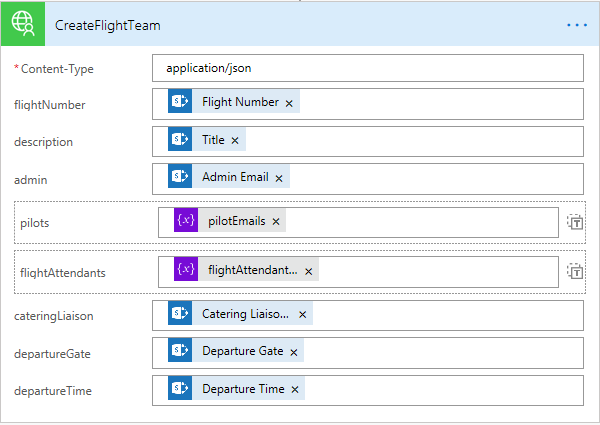
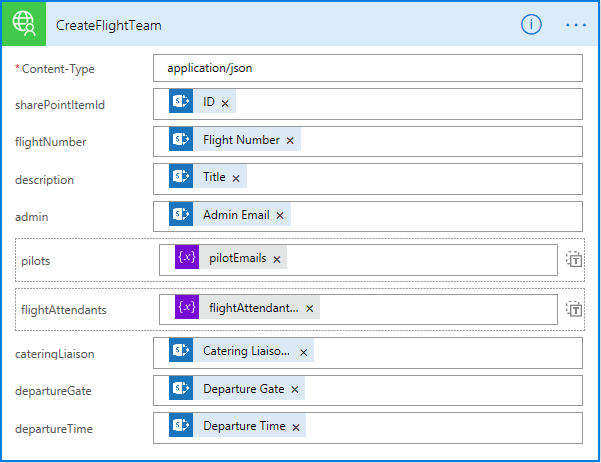
Updated docs on creating the rest of the flows

Changed region(s): [[0.0, 0.0, 1.0, 1.0]]

diff --git a/README.md b/README.md
@@ -8,7 +8,7 @@
 
 1. Go to your Office 365 organization's root SharePoint site.
 1. Choose **Create Site**, then choose **Team site**. Name the site `Flight Admin` and choose **Next**, then choose **Finish**.
-1. When the new site loads in the browser, locate the **Documents** web part. Using either the **New** or the **Upload** button in that webpart, add a Word document called `Flight Log.docx`.
+1. When the new site loads in the browser, locate the **Documents** web part. Using either the **New** or the **Upload** button in that web part, add a Word document called `Flight Log.docx`.
 1. On the site's home page, choose **New** in the upper-left corner, then choose **List**. Name the list `Master Flight List` and choose **Create**.
 1. When the new list loads in the browser, use the **Add column** button to add the following columns:
 
@@ -87,9 +87,37 @@ You need to create two app registration in the Azure Portal.
 
 1. Chose **Save**.
 
-### Record Admin consent
+### Create schema extension
 
-Some of the permissions required by this sample require an administrator to consent.
+This sample uses a [schema extension](https://developer.microsoft.com/en-us/graph/docs/api-reference/beta/resources/schemaextension) to save the item ID of the SharePoint list item that initiated the team provisioning onto the group in Microsoft Graph. This is used to find the group later when archiving the team or notifying members of a change to the departure gate.
+
+1. Go to [Graph Explorer](https://developer.microsoft.com/en-us/graph/graph-explorer) and login with an administrator account.
+1. Change the method to **POST**, the version to **beta**, and set the URL to `https://graph.microsoft.com/beta/schemaExtensions`.
+
+    ![A screenshot of the Graph Explorer request settings](readme-images/graph-explorer-request.PNG)
+
+1. In the **Request Body**, add the following JSON, replacing `app-id-for-flight-team-provisioning-function` with the application ID for your `Flight Team Provisioning Function` app registration.
+
+    ```json
+    {
+        "id":"contosoFlightTeam",
+        "owner": "app-id-for-flight-team-provisioning-function",
+        "description": "Contoso Flight Team Provisioning extensions",
+        "targetTypes": [
+            "Group"
+        ],
+        "properties": [
+            {
+                "name": "sharePointItemId",
+                "type": "Integer"
+            }
+        ]
+    }
+    ```
+
+1. Choose **Run Query**.
+1. In the **Response Preview**, locate the value of the `id` property. Copy this value.
+1. Open the `./create-flight-team/Graph/GraphResources.cs` file and replace `YOUR_SCHEMA_EXTENSION_NAME` with the value you just copied.
 
 ## Configure Microsoft Flow
 
@@ -160,6 +188,7 @@ Some of the permissions required by this sample require an administrator to cons
 1. Enter `Contoso` in the search box, then select **Contoso Team Provisioning - CreateFlightTeam**.
 1. Choose **Sign in**. **Be sure to use an administrator account** when you sign in to create the connection. The permissions required by the sample require administrator consent.
 1. Once sign in and consent are complete, you should see a form for the action. Fill in the fields as follows using the Flow UI.
+    1. **sharePointItemId**: Under **Dynamic content** choose **See more**, then select **ID**.
     1. **flightNumber**: Under **Dynamic content** choose **See more**, then select **Flight Number**.
     1. **description**: Under **Dynamic content** select **Title**.
     1. **admin**: Under **Dynamic content** select **Admin Email**.
@@ -173,15 +202,15 @@ Some of the permissions required by this sample require an administrator to cons
 
 1. Choose **New Step**, then **Add an action**.
 1. Enter `notification` in the search box, then select **Notifications - Send me an email notification**.
-    1. For **Subject**, enter `Microsoft Team created for Flight `, then under **Dynamic content** choose **See more**, then select **Flight Number**.
+    1. For **Subject**, enter `Microsoft Team created for Flight`, then under **Dynamic content** choose **See more**, then select **Flight Number**.
     1. For **Body**, under **Dynamic content** select **Link to item**.
 
     ![A screenshot of the Send me an email notification action for success](readme-images/send-success-email.PNG)
 
 1. Hover over the arrow above the **Send me an email notification** action and choose the **+**, then **Add a parallel branch**, then **Add an action**.
 1. Enter `notification` in the search box, then select **Notifications - Send me an email notification**.
-    1. For **Subject**, enter `Error creating Microsoft Team for Flight `, then under **Dynamic content** choose **See more**, then select **Flight Number**.
-    1. For **Body**, enter `Details: `, then under **Dynamic content** select **Body**.
+    1. For **Subject**, enter `Error creating Microsoft Team for Flight`, then under **Dynamic content** choose **See more**, then select **Flight Number**.
+    1. For **Body**, enter `Details:`, then under **Dynamic content** select **Body**.
     1. Choose the **...** on the action and choose **Configure run after**.
         1. Unselect **is successful**
         1. Select **has failed**
@@ -196,3 +225,41 @@ The email notification actions should look like the following when you're done.
 Select **Save** to save the flow.
 
 ### Create the "Archive Team" flow
+
+1. Go to [Microsoft Flow](https://flow.microsoft.com). Choose **My flows**.
+1. Choose **Create from blank**.
+1. On the next page, choose **Create from blank**.
+1. Enter `SharePoint` in the search box, then select **SharePoint - When an item is deleted**.
+    1. Enter the URL to your **Flight Admin** site you created earlier for **Site Address**, then select **Master Flight List** for **List Name**.
+
+    ![A screenshot of the When an item is deleted trigger](readme-images/item-deleted-trigger.PNG)
+
+1. Choose **New Step**, then **Add an action**.
+1. Enter `Contoso` in the search box, then select **Contoso Team Provisioning - ArchiveFlightTeam**.
+1. Fill in the fields as follows using the Flow UI.
+    1. **sharePointItemId**: Under **Dynamic content** choose **See more**, then select **ID**.
+
+    ![A screenshot of the ArchiveFlightTeam action](readme-images/archive-flight-team-action.PNG)
+
+Select **Save** to save the flow.
+
+### Create the "Notify Team" flow
+
+For this flow, we will start with an existing template and modify it to our use. Unfortunately the Flow team removed the "When an existing item is modified" trigger for SharePoint from the UI when creating a blank flow. By using this template, we can get access to it.
+
+1. Go to the [Microsoft Flow template](https://us.flow.microsoft.com/en-us/galleries/public/templates/3821506240744debadcd89c94690652d/when-an-item-in-a-sharepoint-list-is-modified-send-an-email/). Choose **Edit in advanced mode**.
+1. In the **When an existing item is modified** box, enter the URL to your **Flight Admin** site you created earlier for **Site Address**, then select **Master Flight List** for **List Name**.
+
+    ![A screenshot of the When an existing item is modified trigger](readme-images/item-modified-trigger.PNG)
+
+1. Choose the **...** on the **Send Email** box and choose **Delete**. Choose **OK** when prompted.
+
+1. Choose **New Step**, then **Add an action**.
+1. Enter `Contoso` in the search box, then select **Contoso Team Provisioning - NotifyFlightTeam**.
+1. Fill in the fields as follows using the Flow UI.
+    1. **sharePointItemId**: Under **Dynamic content** choose **See more**, then select **ID**.
+    1. **newDepartureGate**: Under **Dynamic content** select **Departure Gate**.
+
+    ![A screenshot of the NotifyFlightTeam action](readme-images/notify-flight-team-action.PNG)
+
+Select **Save** to save the flow.
